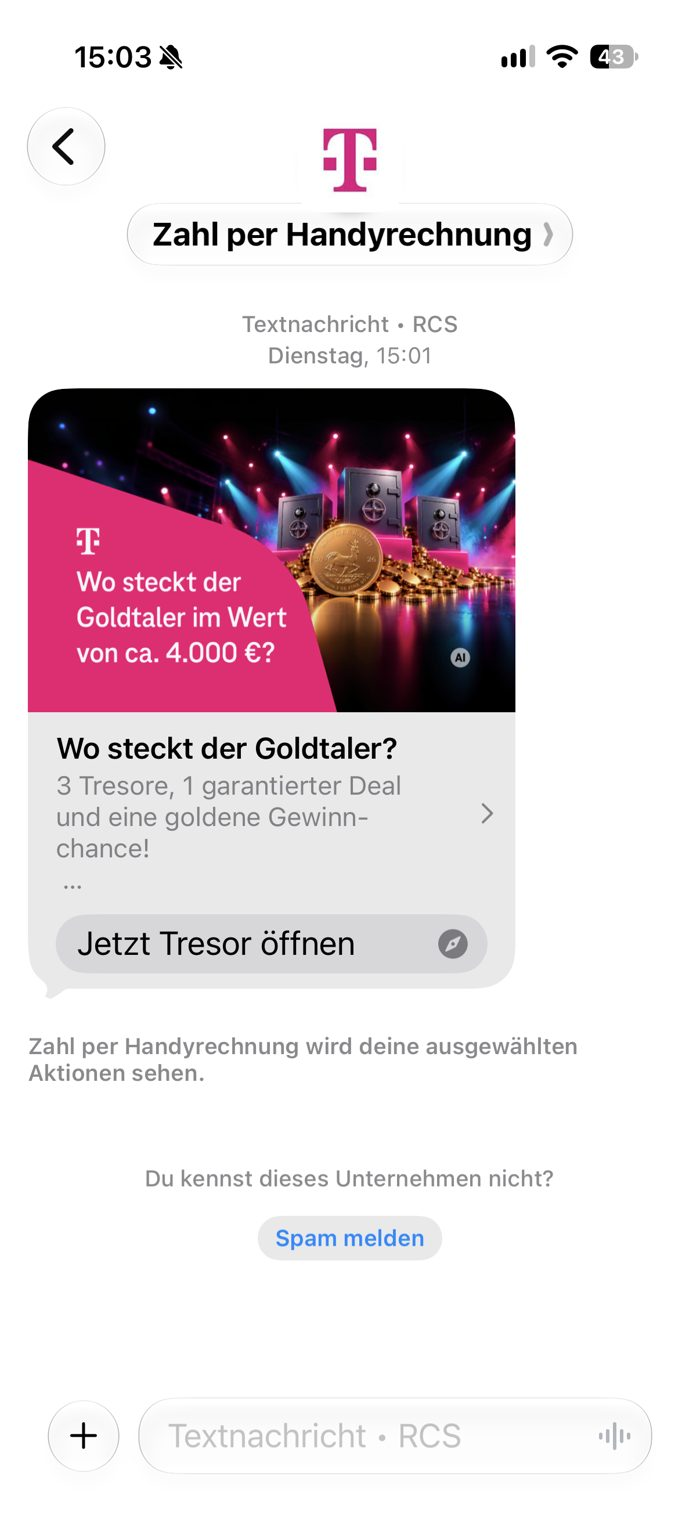
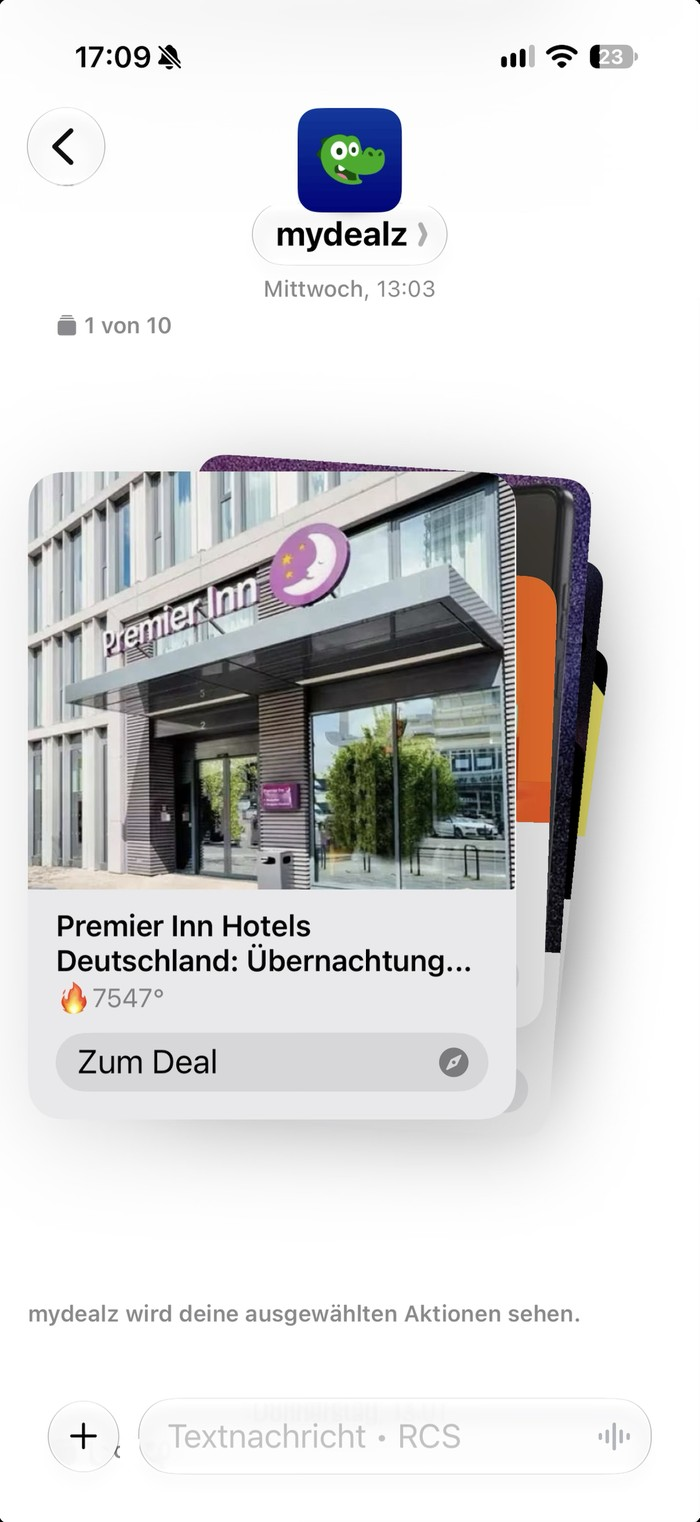
RCS mockups: mydealz intro screenshot for iOS light, neutral rating question
Claude-Session: https://claude.ai/code/session_0174eXJtGch1H96jwgZ4FS7p

diff --git a/rcs-interview/index.html b/rcs-interview/index.html
@@ -264,7 +264,7 @@ body{background:#eef0f4;color:#1f2430;font-family:Inter,system-ui,sans-serif;dis
 <div class="stage" id="stage"></div>
 
 <script>
-const V="20261122c";
+const V="20261122d";
 /* ---------- Logos (erfundene Marken) ---------- */
 const LOGO={
 deal:`<svg viewBox="0 0 60 60"><rect width="60" height="60" fill="#ff6a00"/><path d="M14 34 L30 14 L46 34 Z" fill="#fff"/><circle cx="30" cy="40" r="8" fill="#fff"/><text x="30" y="44" text-anchor="middle" font-family="Inter,sans-serif" font-size="10" font-weight="800" fill="#ff6a00">%</text></svg>`,
@@ -319,7 +319,7 @@ const ORDER=['A','B','C','D','E','F'];
 
 /* Einstieg: echte Screenshots + Markierungen (Prozent-Positionen) */
 const EIN={
- ios_light_1:[{x:32.6,y:19.8,w:34.8,h:5.2,l:'RCS-Nachricht'},{x:17.8,y:91.0,w:75.6,h:6.6,l:'RCS im Eingabefeld'}],
+ ios_light_1:[{x:19.0,y:91.3,w:74.8,h:6.0,l:'RCS im Eingabefeld'}],
  ios_light_2:[{x:32.6,y:19.8,w:34.8,h:5.2,l:'RCS-Nachricht'},{x:17.8,y:91.0,w:75.6,h:6.6,l:'RCS im Eingabefeld'}],
  ios_dark_1:[{x:32.6,y:19.8,w:34.8,h:5.2,l:'RCS-Nachricht'},{x:17.8,y:91.0,w:75.6,h:6.6,l:'RCS im Eingabefeld'}],
  ios_dark_2:[{x:32.6,y:19.8,w:34.8,h:5.2,l:'RCS-Nachricht'},{x:17.8,y:91.0,w:75.6,h:6.6,l:'RCS im Eingabefeld'}],
